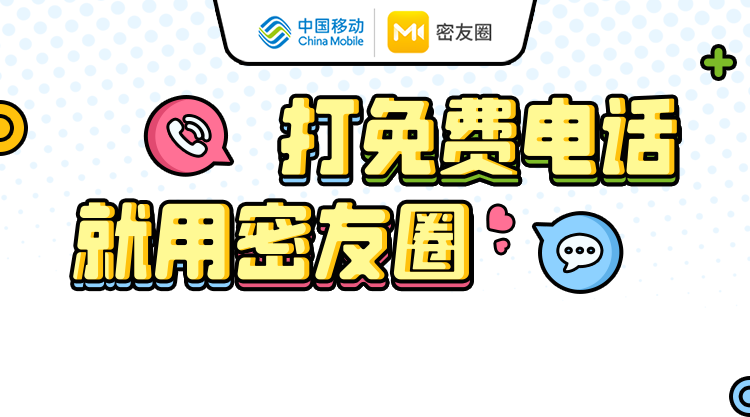
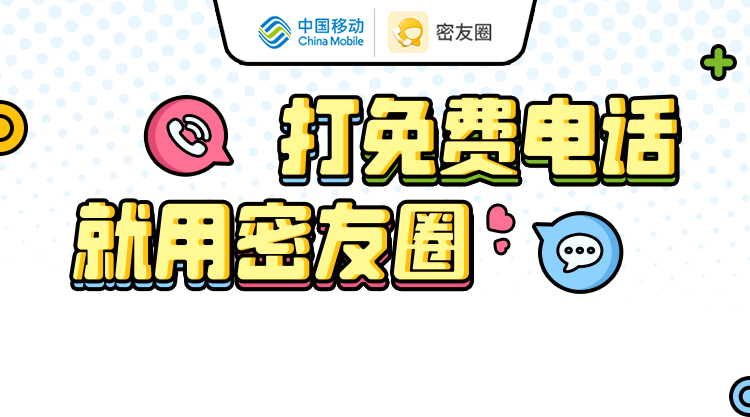
新增不拉起app推广页

Changed region(s): [[0.4907, 0.0, 0.5827, 0.1559]]

diff --git a/promotion/indexForDownload.html b/promotion/indexForDownload.html
@@ -1,0 +1,129 @@
+<!DOCTYPE html>
+<html lang="en">
+<head>
+    <meta charset="UTF-8">
+    <meta name="viewport" content="width=device-width,initial-scale=1.0,maximum-scale=1.0,user-scalable=0"/>
+    <meta name="format-detection" content="telephone=no"/>
+    <meta name="apple-mobile-web-app-capable" content="yes"/>
+    <meta name="apple-mobile-web-app-status-bar-style" content="black"/>
+    <meta http-equiv="Expires" content="-1"/>
+    <meta http-equiv="Cache-Control" content="no-cache"/>
+    <meta http-equiv="Pragma" content="no-cache"/>
+    <meta http-equiv="X-UA-Compatible" content="IE=edge,chrome=1"/>
+    <title>打免费电话就用密友圈</title>
+    <link rel="stylesheet" href="css/main.css">
+    <script type="text/javascript">
+        (function (doc, win) {// 动态修改root 的 font-size
+            var docEl = doc.documentElement,
+                resizeEvt = 'onorientationchange' in window ? 'onorientationchange' : 'resize',
+                recalc = function () {
+                    var clientWidth = docEl.clientWidth;
+                    if (!clientWidth) return;
+                    if (clientWidth >= 750) {
+                        docEl.style.fontSize = '100px';
+                    } else {
+                        docEl.style.fontSize = 100 * (clientWidth / 750) + 'px';
+                    }
+                };
+
+            if (!doc.addEventListener) return;
+            win.addEventListener(resizeEvt, recalc, false);
+            doc.addEventListener('DOMContentLoaded', recalc, false);
+        })(document, window);
+
+        //神策
+        (function(para) {
+            var p = para.sdk_url, n = para.name, w = window, d = document, s = 'script',x = null,y = null;
+            w['sensorsDataAnalytic201505'] = n;
+            w[n] = w[n] || function(a) {return function() {(w[n]._q = w[n]._q || []).push([a, arguments]);}};
+            var ifs = ['track','quick','register','registerPage','registerOnce','trackSignup', 'trackAbtest', 'setProfile','setOnceProfile','appendProfile', 'incrementProfile', 'deleteProfile', 'unsetProfile', 'identify','login','logout','trackLink','clearAllRegister','getAppStatus'];
+            for (var i = 0; i < ifs.length; i++) {
+                w[n][ifs[i]] = w[n].call(null, ifs[i]);
+            }
+            if (!w[n]._t) {
+                x = d.createElement(s), y = d.getElementsByTagName(s)[0];
+                x.async = 1;
+                x.src = p;
+                x.setAttribute('charset','UTF-8');
+                y.parentNode.insertBefore(x, y);
+                w[n].para = para;
+            }
+            })({
+            sdk_url: '//static.sensorsdata.cn/sdk/1.11.9/sensorsdata.min.js',
+            heatmap_url: '//static.sensorsdata.cn/sdk/1.11.9/heatmap.min.js',
+            name: 'sensors',
+            web_url: '//cmsouth.cloud.sensorsdata.cn/',
+            use_app_track: true,   // isConnect with app
+            server_url: 'http://cmsouth.datasink.sensorsdata.cn/sa?token=5709691ef0ee8ea8',  // test adress
+            // server_url: '//cmsouth.datasink.sensorsdata.cn/sa?project=production&token=5709691ef0ee8ea8', // product adress
+            heatmap:{
+                clickmap:'default',
+                scroll_notice_map:'default'
+            }
+            });
+            //调用设置公共属性的方法，来保证之后的事件都有这属性。
+            sensors.registerPage({
+            activity_name: "密友圈推广页(不拉起app)",   //活动名称
+            enterance_platform: "端外"    //入口平台    端内、端外
+            });
+            sensors.quick('autoTrack');
+    </script>
+</head>
+<body>
+<div class="container">
+    <div class="head-wrapper">
+        <img src="img/head.png" class="head-pic">
+        <a class="head-button" name="顶部下载按钮" onclick="toDownload()"><img src="img/head-button.png"></a>
+        <img src="img/content.png" class="content-pic">
+    </div>
+    <div class="bottom-wrapper">
+        <a class="bottom-button" name="底部按钮" onclick="toDownload()"><img src="img/button.png" class="button-pic"></a>
+    </div>
+</div>
+
+<!--遮罩层-->
+<div class="mask" id="mask" onclick="hideMask()"></div>
+<!--弹窗-->
+<div class="popup" id="popup" style="display: none">
+    <img src="img/popup.png" alt="">
+</div>
+
+<script>
+    function isWeixin() {
+        var ua = navigator.userAgent.toLowerCase();
+        if (ua.match(/MicroMessenger/i) == "micromessenger") {
+            return true;
+        } else {
+            return false;
+        }
+    }
+
+    var testWeixin = isWeixin();
+    var u = navigator.userAgent;
+    var isAndroid = u.indexOf('Android') > -1 || u.indexOf('Adr') > -1; //android终端
+    var isiOS = !!u.match(/\(i[^;]+;( U;)? CPU.+Mac OS X/); //ios终端
+    function toDownload(){
+        if (testWeixin) {
+            if(isiOS){
+                window.location.href = 'https://a.app.qq.com/o/simple.jsp?pkgname=com.cmic.college'
+            }else{
+                document.getElementById('popup').style.display = 'block';
+                document.getElementById('mask').style.display = 'block';
+            }
+        }else{
+            if (isiOS) {
+                window.location.href = 'itms-apps://itunes.apple.com/cn/app/%E5%AF%86%E5%8F%8B%E5%9C%88/id1266608463?mt=8"'
+            }else{
+                window.location.href = 'http://a.10086.cn/c/a/s.do?requestid=zndxzh&channelid=5410453499&cid=300011040393&gid=300011040393/';
+            }
+        }
+    }
+    function hideMask(){
+        document.getElementById('popup').style.display = 'none'
+        document.getElementById('mask').style.display = 'none'
+    }
+</script>
+<!-- <script src="js/callApp.js"></script> -->
+<!-- <script src="https://www.w3cways.com/demo/vconsole/vconsole.min.js?v=2.2.0"></script> -->
+</body>
+</html>
